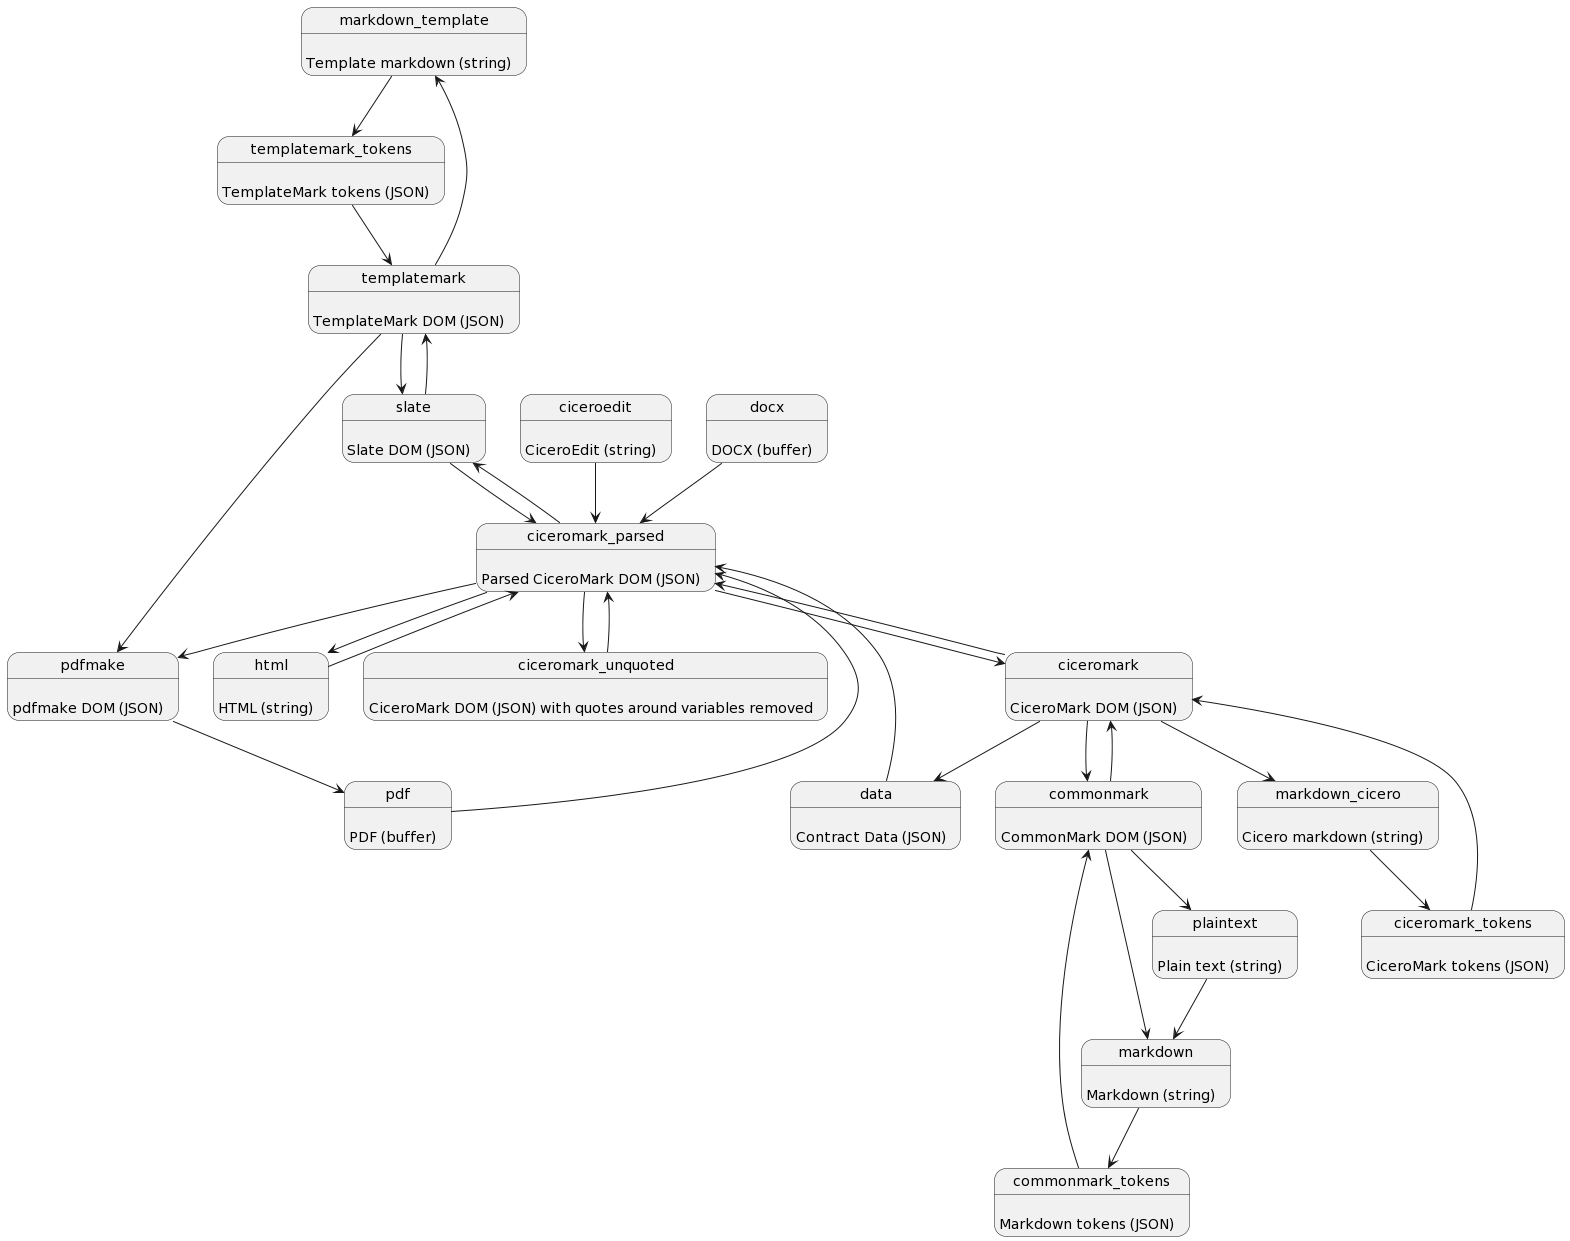
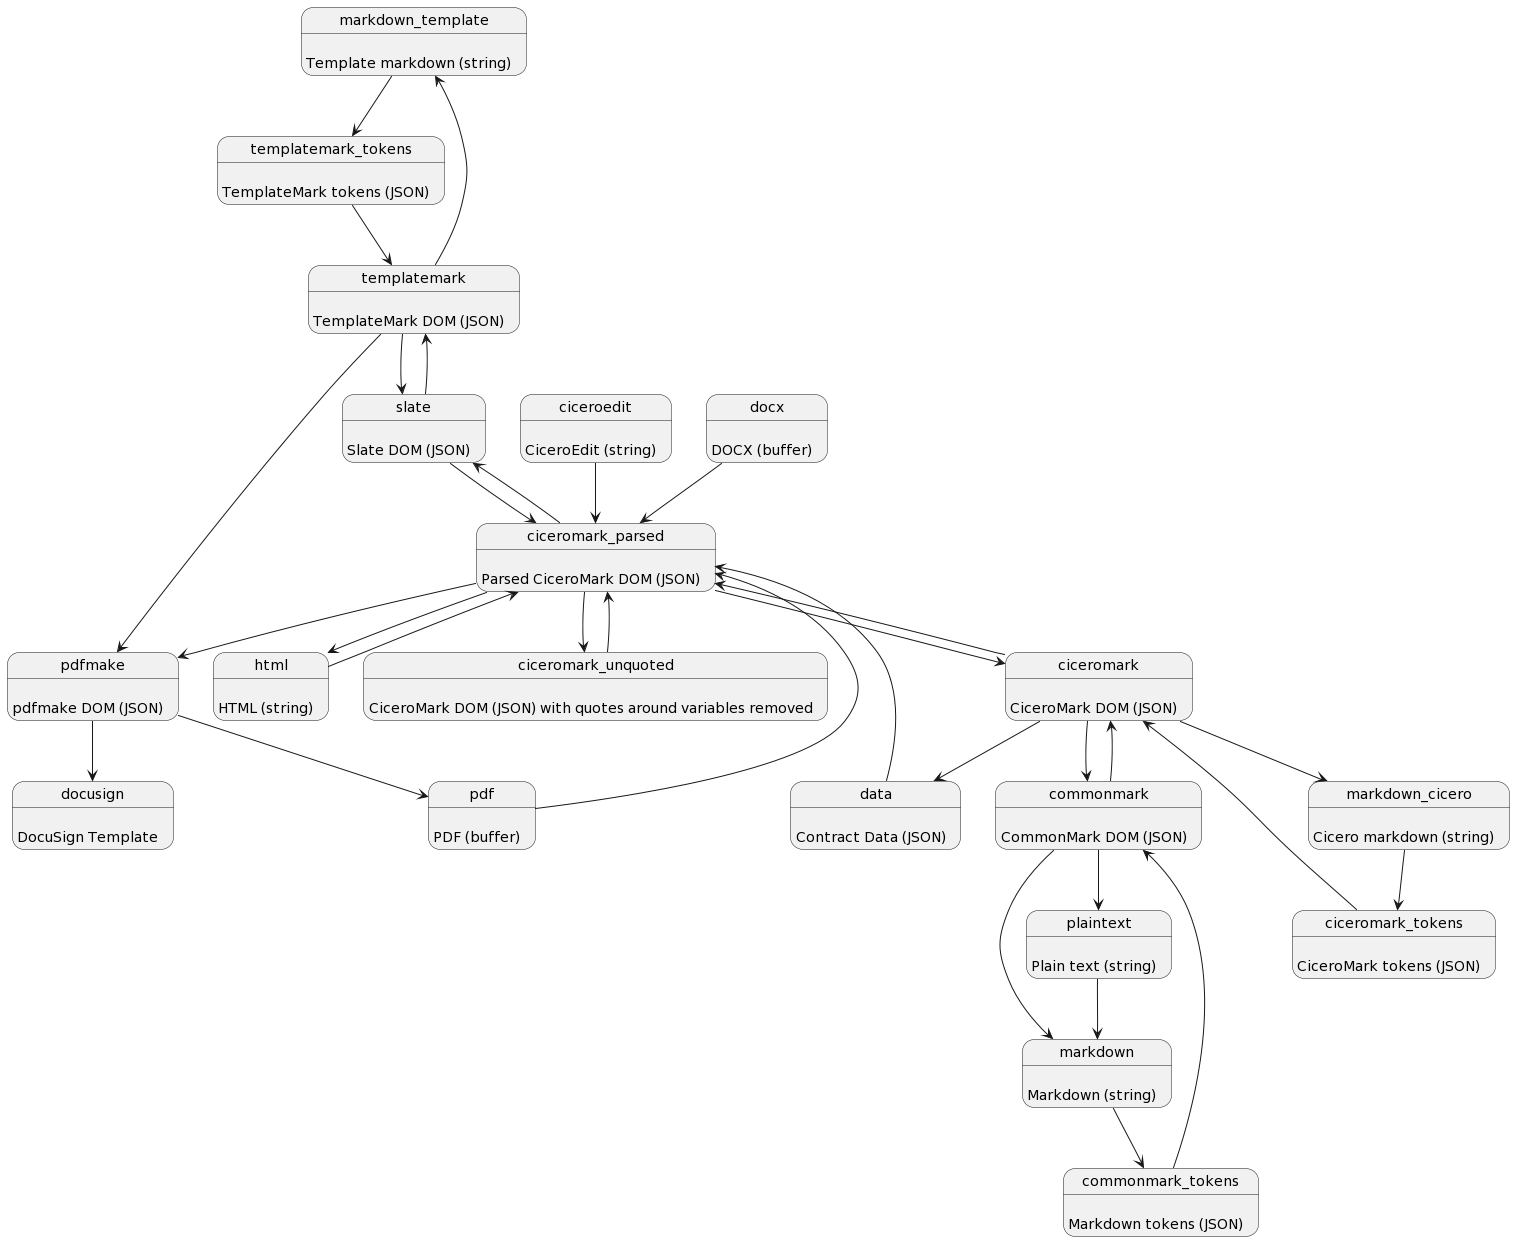
WIP(slate) Add variable paths to transforms

diff --git a/packages/markdown-slate/lib/templatemarktoslaterules.js b/packages/markdown-slate/lib/templatemarktoslaterules.js
@@ -83,6 +83,9 @@ rules.VariableDefinition = (thing,processChildren,parameters) => {
     if (thing.identifiedBy) {
         data.identifiedBy = thing.identifiedBy;
     }
+    if (thing.path) {
+        data.path = thing.path;
+    }
     return toslateutil.handleVariableDefinition('variable_definition', data, thing.name, parameters);
 };
 rules.FormattedVariableDefinition = (thing,processChildren,parameters) => {
@@ -93,6 +96,9 @@ rules.FormattedVariableDefinition = (thing,processChildren,parameters) => {
     if (thing.decorators) {
         data.decorators = thing.decorators.map(x => parameters.serializer.toJSON(x));
     }
+    if (thing.path) {
+        data.path = thing.path;
+    }
     return toslateutil.handleVariableDefinition('variable_definition', data, thing.name, parameters);
 };
 rules.EnumVariableDefinition = (thing,processChildren,parameters) => {
@@ -102,6 +108,9 @@ rules.EnumVariableDefinition = (thing,processChildren,parameters) => {
     }
     if (thing.decorators) {
         data.decorators = thing.decorators.map(x => parameters.serializer.toJSON(x));
+    }
+    if (thing.path) {
+        data.path = thing.path;
     }
     return toslateutil.handleVariableDefinition('variable_definition', data, thing.name, parameters);
 };

diff --git a/packages/markdown-pdf/src/dsutil.js b/packages/markdown-pdf/src/dsutil.js
@@ -17,7 +17,7 @@
 const uuid = require('uuid');
 
 const createTemplate = require('./templateTemplate');
-const createTab = (pageNumber, w, x, y, tabLabel, recipientId) => {
+const createTab = (pageNumber, w, x, y, tabLabel, value, recipientId) => {
     // XXX Tabs are boxes so we have to adjust dimensions for centering
     const xPosition = Math.round(x - 3).toString(); // Start box a little to the left
     const yPosition = Math.round(y - 2).toString(); // Start box a little above the line
@@ -44,7 +44,7 @@ const createTab = (pageNumber, w, x, y, tabLabel, recipientId) => {
         locked: 'false',
         maxLength: '4000',
         required: 'true',
-        value: tabLabel, // XXX Maybe play with this, see what happens?
+        value,
         requireAll: 'false',
         requireInitialOnSharedChange: 'false',
         shared: 'false',
@@ -68,6 +68,7 @@ const createDocuSignTemplate = (name, roles = ['Recipient1'], pdfBase64, nbPages
             variable.options.textWidth,
             variable.x,
             variable.y,
+            variable.path ? variable.path.replace(/^\$/,'ADM') : variable.name,
             variable.name,
             recipientId,
         ));

diff --git a/packages/markdown-slate/lib/ToSlateVisitor.js b/packages/markdown-slate/lib/ToSlateVisitor.js
@@ -44,7 +44,7 @@ class ToSlateVisitor {
         const nodes = thing[fieldName] ? thing[fieldName] : [];
 
         nodes.forEach(node => {
-            //console.log(`Processing ${thing.getType()} > ${node.getType()}`);
+            // console.log(`Processing ${thing.getType()} > ${node.getType()}`);
             const newParameters = {
                 serializer: parameters.serializer,
                 strong: parameters.strong,

diff --git a/packages/markdown-pdf/src/templatemarkrules.js b/packages/markdown-pdf/src/templatemarkrules.js
@@ -31,6 +31,9 @@ const defaultVariableRule = (visitor, thing, children, parameters) => {
     const fixedText = thing.name;
     parameters.result.text = fixedText;
     parameters.result.color = '#FFFAFA';
+    if (thing.path) {
+        parameters.result.path = thing.path;
+    }
     if (thing.decorators) {
         thing.decorators.forEach((d) => addDecorator(d, parameters));
     }

diff --git a/packages/markdown-slate/lib/fromslateutil.js b/packages/markdown-slate/lib/fromslateutil.js
@@ -233,6 +233,9 @@ function handleVariableDefinition(node) {
     if (Object.prototype.hasOwnProperty.call(data,'decorators')) {
         result.decorators = data.decorators;
     }
+    if (Object.prototype.hasOwnProperty.call(data,'path')) {
+        result.path = data.path;
+    }
 
     return handleMarks(node,result);
 }

diff --git a/packages/markdown-pdf/src/PdfTransformerBrowser.js b/packages/markdown-pdf/src/PdfTransformerBrowser.js
@@ -76,6 +76,7 @@ class PdfTransformerBrowser extends PdfTransformerBase {
                 item.style === 'FormattedVariableDefinition') {
                 variables.push({
                     name: item.text,
+                    path: item.path,
                     x,
                     y,
                     options,

diff --git a/packages/markdown-pdf/src/PdfTransformer.js b/packages/markdown-pdf/src/PdfTransformer.js
@@ -66,6 +66,7 @@ class PdfTransformer extends PdfTransformerBase {
                 item.style === 'FormattedVariableDefinition') {
                 variables.push({
                     name: item.text,
+                    path: item.path,
                     x,
                     y,
                     options,
